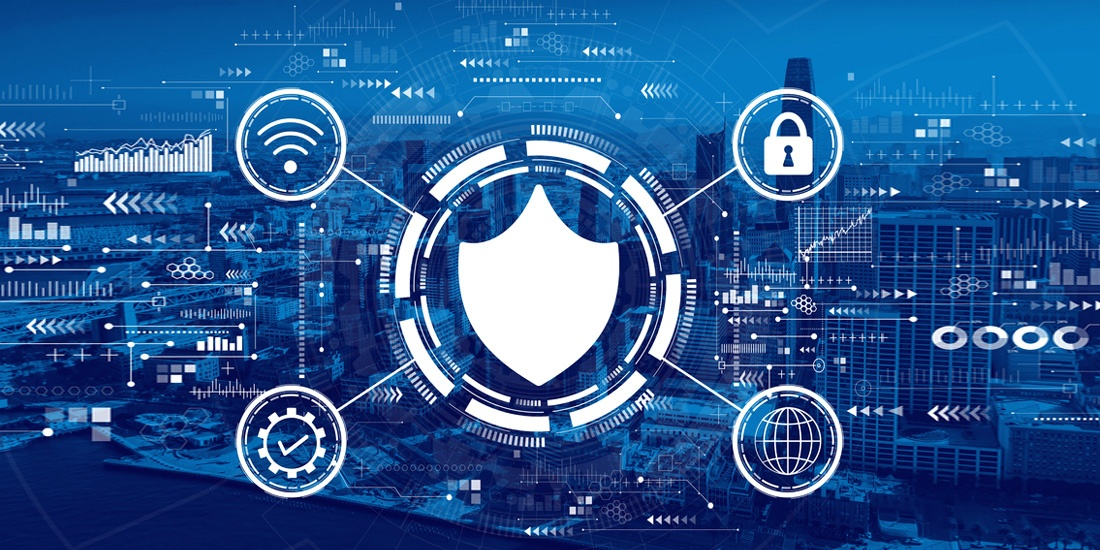
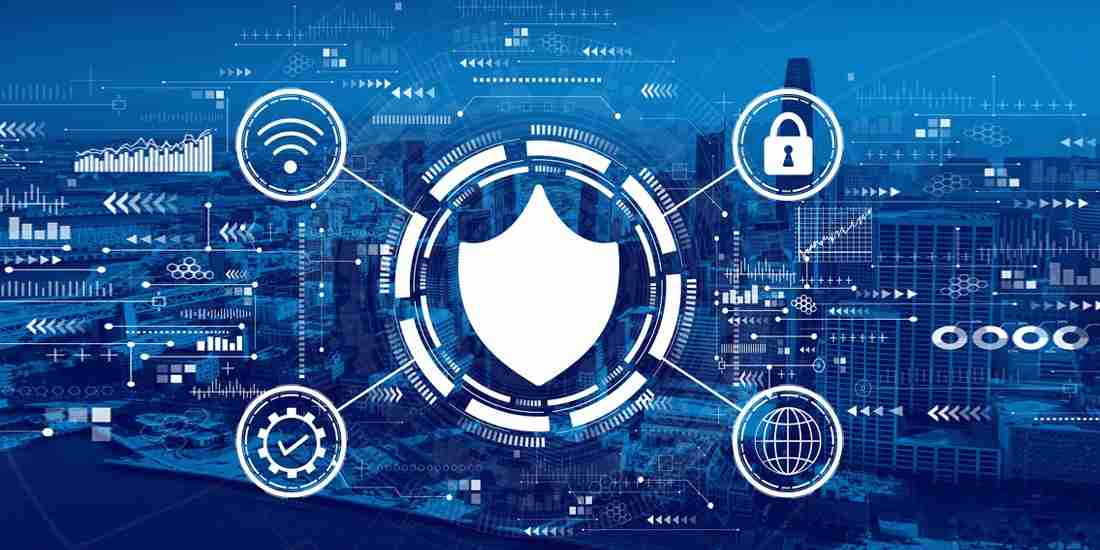
added Compressed jpg files

diff --git a/src/App.js b/src/App.js
@@ -38,7 +38,13 @@ const Team = () => {
     </div>
   )
 }
-
+// const Event = () => {
+//   return (
+//     <div>
+//       <EventRegistrationForm />
+//     </div>
+//   )
+// }
 const Contactus = () => {
   return (
     <div>
@@ -57,6 +63,7 @@ const App = () => {
         {/* <Route path="/about" element={<About />} /> */}
         <Route path="/courses" element={<Courses />} />
         <Route path="/team" element={<Team />} />
+        {/* <Route path="/event" element={<Event />} /> */}
         <Route path="/contactus" element={<Contactus/>} />
         <Route path="*" element={<Navigate to="/" replace />} />
       </Routes>

diff --git a/src/containers/gallery/Gallery.js b/src/containers/gallery/Gallery.js
@@ -1,10 +1,10 @@
 import React from 'react';
 import './gallery.css';
-import blog01 from "../../assets/Blog/blog01.JPG";
+import blog01 from "../../assets/Blog/blog01.jpg";
 import blog02 from "../../assets/Blog/blog02.jpg";
-import blog03 from "../../assets/Blog/blog03.JPG";
-import blog04 from "../../assets/Blog/blog04.JPG";
-import blog05 from "../../assets/Blog/blog05.JPG";
+import blog03 from "../../assets/Blog/blog03.jpg";
+import blog04 from "../../assets/Blog/blog04.jpg";
+import blog05 from "../../assets/Blog/blog05.jpg";
 
 const Gallery = () => {
   return (

diff --git a/src/components/index.js b/src/components/index.js
@@ -6,3 +6,4 @@ export {default as TeamSection} from './team/TeamSection';
 export {default as CourseSection} from './course/CourseSection';
 export {AboutSection} from './about/AboutSection';
 export {default as ScrollTop} from './scrolltop/ScrollTop';
+// export {default as EventRegistrationForm } from './event/EventRegistrationForm';
